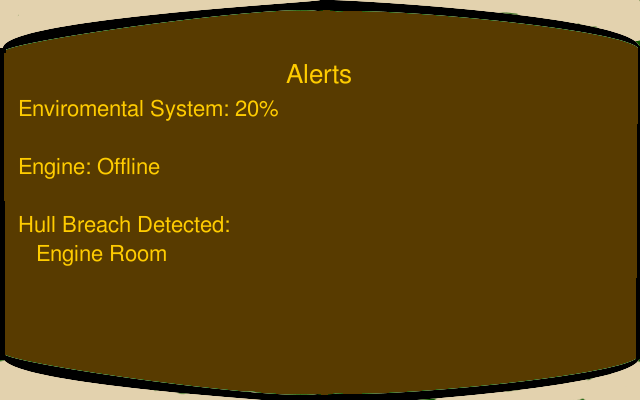
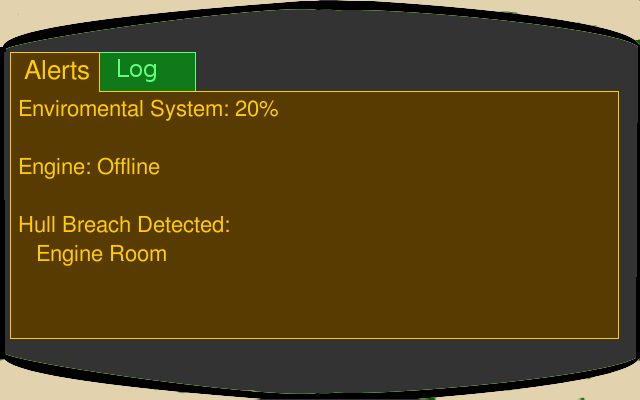
Hook up parts of the bridge computer system

diff --git a/gamelib/scenes/bridge.py b/gamelib/scenes/bridge.py
@@ -3,6 +3,7 @@
 import random
 
 from albow.music import change_playlist, get_music, PlayList
+from albow.resource import get_image
 
 from gamelib.cursor import CursorSprite
 from gamelib.state import Scene, Item, Thing, Result, InteractText, \
@@ -207,16 +208,134 @@ class ChairDetail(Scene):
         super(ChairDetail, self).__init__(state)
         self.add_thing(SuperconductorThing())
 
+
+# classes related the computer detail
+
+
+class LogTab(Thing):
+    """Tab for log screen"""
+
+    NAME = 'bridge_comp.screen'
+
+    INTERACTS = {
+            'log tab' : InteractNoImage(100, 53, 94, 37)
+            }
+    INITIAL = 'log tab'
+    COMPUTER = 'bridge_comp_detail'
+
+    def is_interactive(self):
+        return self.state.detail_views[self.COMPUTER].get_data('tab') == 'alert'
+
+    def interact_without(self):
+        if not self.is_interactive():
+            return
+        self.state.detail_views[self.COMPUTER].set_data('tab', 'log')
+
+
+class AlertTab(Thing):
+    """Tab for alert screen"""
+
+    NAME = 'bridge_comp.alert_tab'
+
+    INTERACTS = {
+            'alert tab' : InteractNoImage(12, 53, 88, 37)
+            }
+    INITIAL = 'alert tab'
+    COMPUTER = 'bridge_comp_detail'
+
+    def is_interactive(self):
+        return self.state.detail_views[self.COMPUTER].get_data('tab') == 'log'
+
+    def interact_without(self):
+        if not self.is_interactive():
+            return
+        self.state.detail_views[self.COMPUTER].set_data('tab', 'alert')
+
+
+class CompUpButton(Thing):
+    """Up button on log screen"""
+
+    NAME = 'bridge_comp.up_button'
+
+    INTERACTS = {
+            'up' : InteractNoImage(594, 82, 30, 58)
+            }
+    INITIAL = 'up'
+    COMPUTER = 'bridge_comp_detail'
+
+    def is_interactive(self):
+        tab = self.state.detail_views[self.COMPUTER].get_data('tab')
+        page = self.state.detail_views[self.COMPUTER].get_data('log page')
+        return tab == 'log' and page > 0
+
+    def interact_without(self):
+        if not self.is_interactive():
+            return
+        page = self.state.detail_views[self.COMPUTER].get_data('log page')
+        self.state.detail_views[self.COMPUTER].set_data('log page', page-1)
+
+
+class CompDownButton(Thing):
+    """Down button on log screen"""
+
+    NAME = 'bridge_comp.down_button'
+
+    INTERACTS = {
+            'down' : InteractNoImage(594, 293, 30, 58)
+            }
+    INITIAL = 'down'
+    COMPUTER = 'bridge_comp_detail'
+
+    def is_interactive(self):
+        tab = self.state.detail_views[self.COMPUTER].get_data('tab')
+        page = self.state.detail_views[self.COMPUTER].get_data('log page')
+        max_page = self.state.detail_views[self.COMPUTER].get_data('max page')
+        return tab == 'log' and (page + 1) < max_page
+
+    def interact_without(self):
+        if not self.is_interactive():
+            return
+        page = self.state.detail_views[self.COMPUTER].get_data('log page')
+        self.state.detail_views[self.COMPUTER].set_data('log page', page+1)
+
+
 class BridgeCompDetail(Scene):
 
     FOLDER = 'bridge'
-    BACKGROUND = 'comp_detail_1.png'
     NAME = 'bridge_comp_detail'
 
-    SIZE = (300, 300)
+    SIZE = (640, 400)
+
+    ALERT = 'comp_detail_1.png'
+
+    LOGS = ['comp_log_1.png', 'comp_log_2.png',
+            'comp_log_end.png']
+
+    BACKGROUND = ALERT
+
+
+    INITIAL_DATA = {
+            'tab' : 'alert',
+            'log page' : 0,
+            'max page' : len(LOGS),
+    }
 
     def __init__(self, state):
         super(BridgeCompDetail, self).__init__(state)
+
+        self.add_thing(LogTab())
+        self.add_thing(AlertTab())
+        self.add_thing(CompUpButton())
+        self.add_thing(CompDownButton())
+        self._alert = get_image(self.FOLDER, self.ALERT)
+        self._logs = [get_image(self.FOLDER, x) for x in self.LOGS]
+
+    def draw_background(self, surface):
+        if self.get_data('tab') == 'alert':
+            self._background = self._alert
+        else:
+            self._background = self._logs[self.get_data('log page')]
+        super(BridgeCompDetail, self).draw_background(surface)
 
 
 SCENES = [Bridge]
